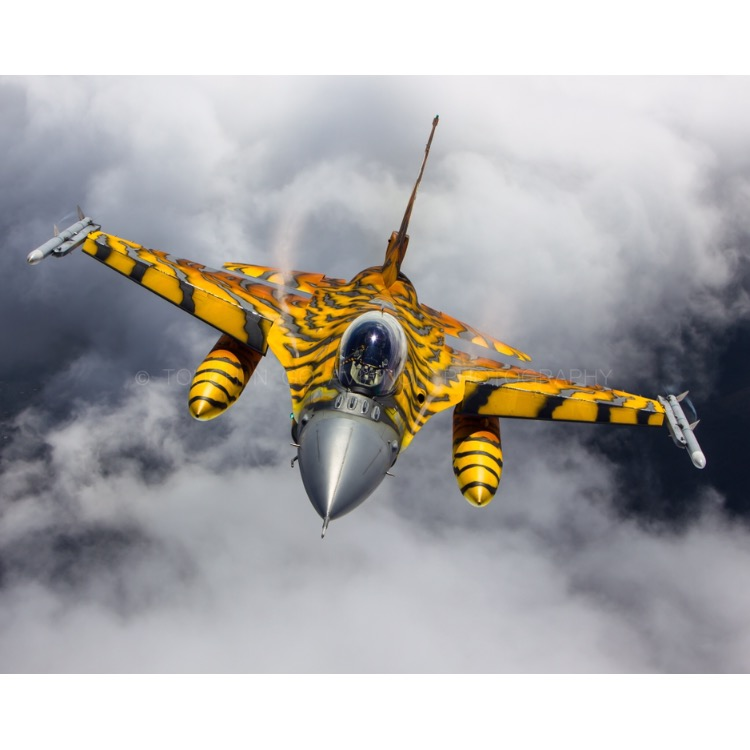
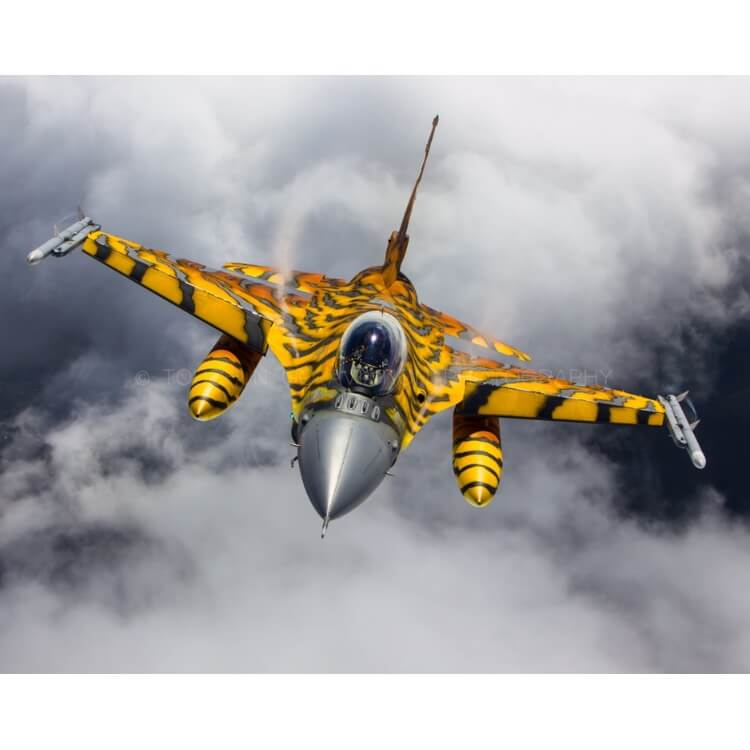
Compress images

diff --git a/projects/fend-project-memory-game-master/js/app.js b/projects/fend-project-memory-game-master/js/app.js
@@ -1,15 +1,11 @@
-/*
- * Create a list that holds all of your cards
- */
+// cards is an array of the li's
 const cards = document.querySelectorAll('.card');
 
+/* each array in photos holds the img src attribute and the alt text
+    - BT-13 photo by Owen Leipelt. All others by TouchNGo Aviation Photography
+*/
+const photos = [['bt13.jpg', 'Alex and Tia flying in the BT-13.'], ['as.jpg', 'Alaska Airlines, more to love livery'],['ek.jpg', 'Emirates A380 taking off at SFO'], ['a2a.jpg', 'Belgian Airforce F-16'],['as-disney.jpg', 'Alaska Airlines, disney plane'], ['ei.jpg', 'Aer Lingus landing at SFO'], ['p51.jpg', 'P51 Mustang flying in an airshow'],['as-vx.jpg', 'Alaska and Virgin parallel takeoff at SFO'], ['bt13.jpg', 'Alex and Tia flying in the BT-13.'], ['as.jpg', 'Alaska Airlines, more to love livery'],['ek.jpg', 'Emirates A380 taking off at SFO'], ['a2a.jpg', 'Belgian Airforce F-16'],['as-disney.jpg', 'Alaska Airlines, disney plane'], ['ei.jpg', 'Aer Lingus landing at SFO'], ['p51.jpg', 'P51 Mustang flying in an airshow'],['as-vx.jpg', 'Alaska and Virgin parallel takeoff at SFO']];
 
-/*
- * Display the cards on the page
- *   - shuffle the list of cards using the provided "shuffle" method below
- *   - loop through each card and create its HTML
- *   - add each card's HTML to the page
- */
 
 // Shuffle function from http://stackoverflow.com/a/2450976
 function shuffle(array) {
@@ -26,6 +22,22 @@ function shuffle(array) {
     return array;
 }
 
+/* shuffle the cards, and populate the board with the images & alt text */
+function populateGameBoard(shuffleFunction, arr) {
+    let shuffled = shuffleFunction(arr);
+    let gameBoard = document.querySelector('.deck');
+    let lis = gameBoard.children;
+   
+    for (let i = 0; i < lis.length; i++){
+        let img = document.createElement('img');
+        img.src = `images/${shuffled[i][0]}`;
+        img.alt = `${shuffled[i][1]}`;
+        lis[i].appendChild(img);
+    }
+}
+
+populateGameBoard(shuffle, photos);
+
 
 /*
  * set up the event listener for a card. If a card is clicked:
@@ -37,3 +49,57 @@ function shuffle(array) {
  *    + increment the move counter and display it on the page (put this functionality in another function that you call from this one)
  *    + if all cards have matched, display a message with the final score (put this functionality in another function that you call from this one)
  */
+
+ const openCards = [];
+ let matches = 0;
+
+ cards.forEach(value => value.addEventListener('click', function(e){
+     let target = e.target;
+   
+     showCard(target);
+     checkForMatch(openCards);
+     if (openCards.length === 16){
+         checkForWin(matches);
+     }
+ }));
+ 
+
+ function showCard(card){
+    let openCard = card.nextElementSibling;
+    openCards.push(openCard);
+    card.classList.add('open-card');
+ }
+
+ function hideCard(e){
+    e.target.classList.remove('open-card');
+ }
+
+ function checkForMatch(arr){
+     let slicedArr;
+
+     if (arr.length >= 2 && arr.length % 2 === 0){
+        slicedArr = arr.slice(arr.length - 2);
+        if (slicedArr[0].src === slicedArr[1].src){
+            matches += 1;
+            slicedArr[0].classList.add('img-match');
+            slicedArr[1].classList.add('img-match');
+        } else {
+            let cardOne = slicedArr[0];
+            let cardTwo = slicedArr[1];
+            
+            setTimeout(function(){
+                cardOne.previousElementSibling.classList.remove('open-card');
+                cardTwo.previousElementSibling.classList.remove('open-card');
+            }, 800);
+
+            arr.length = arr.length - 2;
+        }
+     }
+   
+ }
+
+ function checkForWin(numMatches){
+    if (numMatches === 8){
+        console.log('you won')
+    } 
+ }

diff --git a/projects/fend-project-memory-game-master/index.html b/projects/fend-project-memory-game-master/index.html
@@ -33,58 +33,67 @@
 
         <ul class="deck">
             <li class="card">
-                <img src='images/bt13.jpg'>  
+                <div class="cover"></div>              
             </li>
 
             <li class="card">
-                <img src='images/as-disney.jpg'>
-            </li>
-
-            <li class="card match">
-              <img src='images/a2a.jpg'> 
+                <div class="cover"></div>            
             </li>
 
             <li class="card">
-                <img src='images/as.jpg'>
-            </li>
-            <li class="card">
-                <img src='images/ek.jpg'>
-            </li>
-
-            <li class="card match">
-                <img src='images/a2a.jpg'>
+                <div class="cover"></div>
             </li>
 
             <li class="card">
-                <img src='images/p51.jpg'>
-            </li>
-            <li class="card">
-                <img src='images/as-vx.jpg'>
-            </li>
-            <li class="card">
-                <img src='images/as-disney.jpg'>
-            </li>
-            <li class="card">
-               <img src='images/ei.jpg'>
-            </li>
-            <li class="card">
-                    <img src='images/as-vx.jpg'>
-            </li>
-            <li class="card">
-                    <img src='images/ei.jpg'>
-            </li>
-            <li class="card open show">
-                <img src='images/as.jpg'>
-            </li>
-            <li class="card">
-                <img src='images/bt13.jpg'>
-            </li>
-            <li class="card">
-                <img src='images/p51.jpg'>
+                <div class="cover"></div>              
             </li>
 
             <li class="card">
-                    <img src='images/ek.jpg'>
+                 <div class="cover"></div>              
+            </li>
+
+            <li class="card">
+                <div class="cover"></div>               
+            </li>
+
+            <li class="card">
+                <div class="cover"></div>               
+            </li>
+
+            <li class="card">
+                 <div class="cover"></div>               
+            </li>
+
+            <li class="card">
+                <div class="cover"></div>              
+            </li>
+
+            <li class="card">
+                <div class="cover"></div>              
+            </li>
+
+            <li class="card">
+                <div class="cover"></div>                
+            </li>
+
+            <li class="card">
+                <div class="cover"></div>               
+            </li>
+
+            <li class="card">
+                <div class="cover"></div>               
+            </li>
+
+            <li class="card">
+                <div class="cover"></div>                
+            </li>
+
+            <li class="card">
+                <div class="cover"></div>              
+            </li>
+
+            <li class="card">
+                <div class="cover"></div>               
             </li>
         </ul>
     </div>

diff --git a/projects/fend-project-memory-game-master/css/app.css b/projects/fend-project-memory-game-master/css/app.css
@@ -67,8 +67,27 @@ h1 {
     justify-content: center;
     align-items: center;
     box-shadow: 5px 2px 20px 0 rgba(46, 61, 73, 0.5);
+
+    position: relative;
 }
 
+/* hide the image until user clicks */
+.cover {
+    position: absolute;
+    top: 0;
+    left: 0;
+    height: 100%;
+    width: 100%;
+    
+    z-index: 5;
+    background: #02b3e4;
+    border-radius: 8px;
+    transition: width 0.67s ease;
+}
+
+.open-card {
+    width: 0;
+}
 
 img {
   width: 125px;
@@ -76,21 +95,9 @@ img {
   border-radius: 8px;
 }
 
-.deck .card.open {
-    transform: rotateY(0);
-    background: #02b3e4;
-    cursor: default;
-}
-
-.deck .card.show {
-    font-size: 33px;
-}
-
-.deck .card.match {
-    cursor: default;
-
-    background: #02ccba;
-    font-size: 33px;
+/* put a border on the images when user finds a match */
+.img-match {
+    border: 2px double hsl(253, 55%, 57%);
 }
 
 /*
